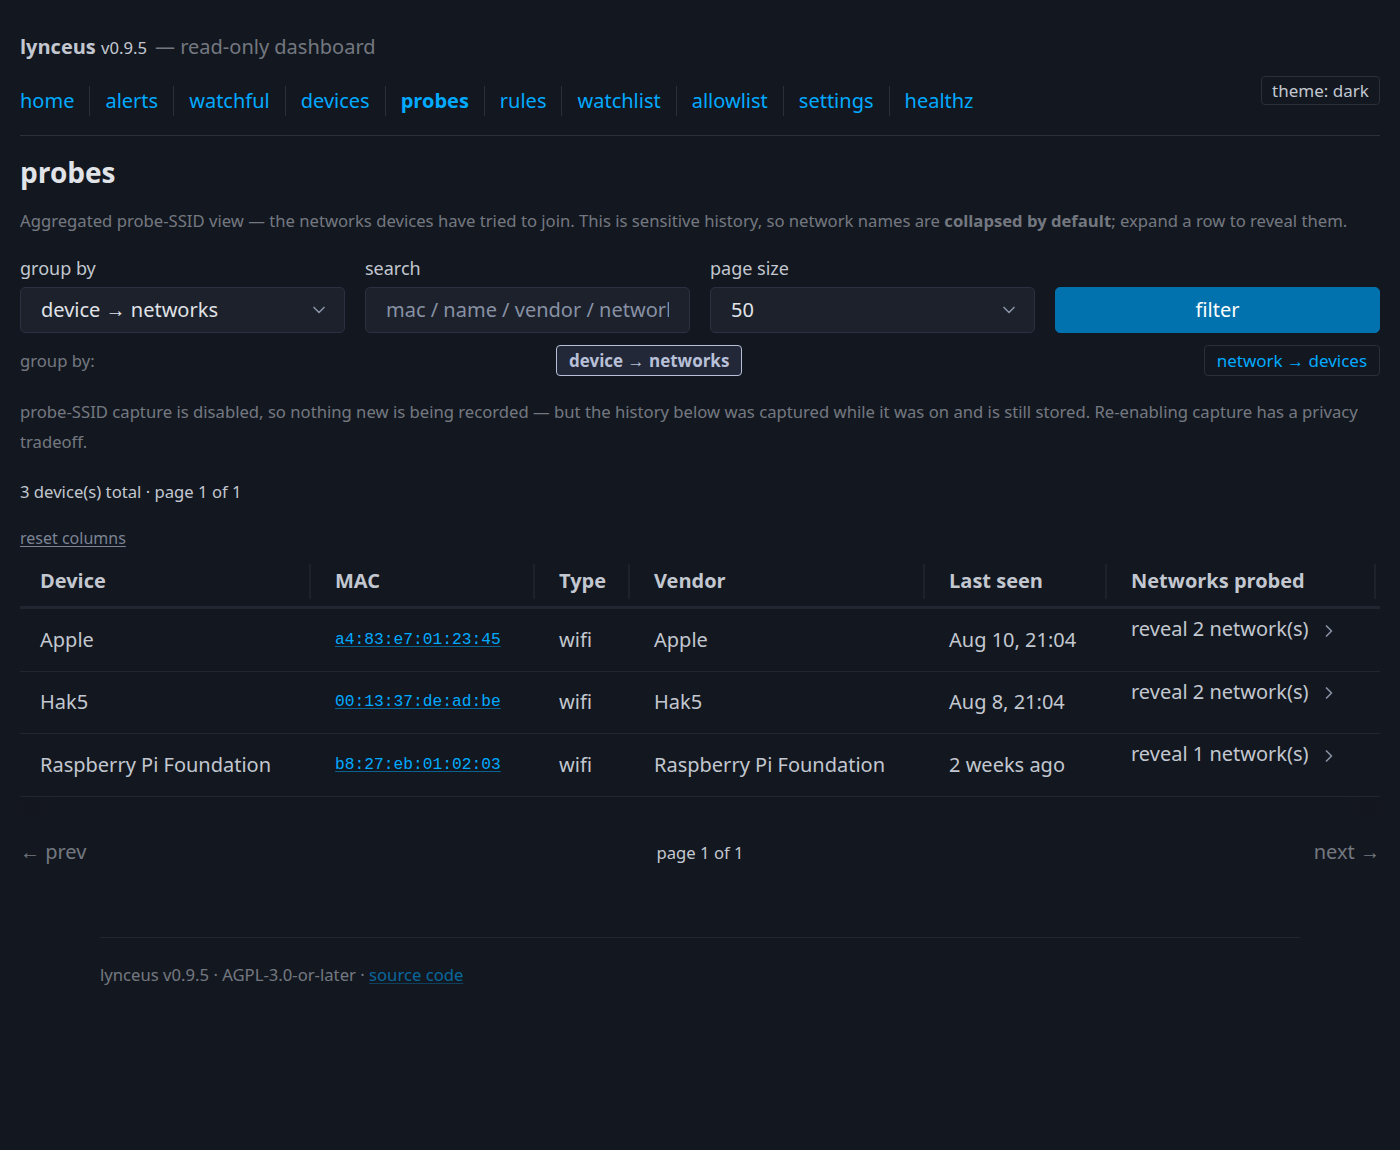
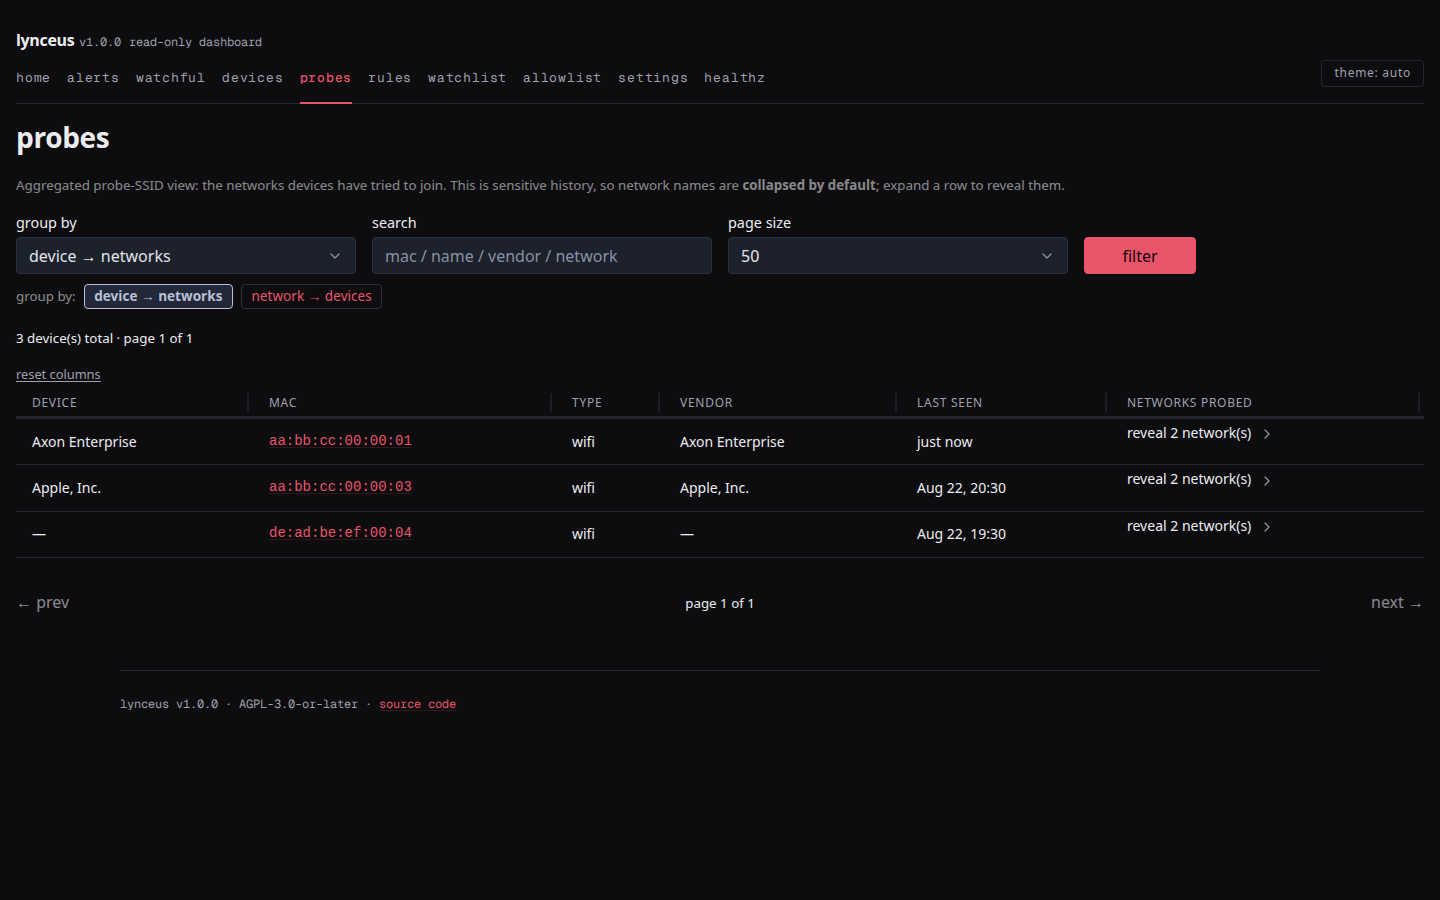
docs: restore #221's screenshots, which merged into a dead branch, and record the batch in the changelog (#224)
* docs(readme): re-shoot the five screenshots, in both themes, against the current UI (#221)

The five shipped images predated the entire UI redesign. Last committed
`d60cdbb`, 2026-08-13; #211 and #212 landed 2026-08-22. Every one showed the
old UI: Pico-blue links, 20px body text, the pipe-separated nav, the
full-width accent slabs, uppercase MACs the product never produces, and
`/alerts` before its filter bar was fixed.

Two dark, three light, and the README now says so -- both themes ship and
both are what the product renders from the operator's OS setting.

    dashboard.png             dark
    alerts-triage.png         light
    watchlist-argus.png       light
    probes-history.png        dark
    settings-ble-bridge.png   light

## The alt-text is the shot list, not a caption

Each image carries a long, specific alt-text, and this repo already has an
audit finding for breaking it once: the prose said five devices with the
reveals expanded, the committed image showed three, collapsed. That was
closed by re-cutting the WORDS. So re-shooting had to avoid REOPENING it.

⛔ The old fixture could not produce four of the five. `/probes` rendered
"probe-SSID capture is disabled, so this view is empty"; the dashboard led
with `Kismet status: unreachable` and a raw `HTTPConnectionPool` traceback;
`Watchlist: not loaded`; `RULES —  no ruleset, so nothing will alert`. A
screenshot of the product failing to connect, published as the picture of
the product working.
[…]

diff --git a/CHANGELOG.md b/CHANGELOG.md
@@ -25,6 +25,24 @@ The format is based on [Keep a Changelog](https://keepachangelog.com/en/1.1.0/).
 
 ### Added
 
+- **Two CI gates that reported on their own lists rather than on the product.**
+  The `web-assets` job checked `git ls-files '*.js'`, which is two files, while
+  the first-party JavaScript this product actually ships includes **10.6 KB
+  across 11 inline `<script>` blocks in 6 templates**, parsed by nothing. The
+  CSP work in this repo deliberately moved behaviour out of `on*=` attributes
+  and into those blocks, so a syntax error in one reaches the operator as a
+  silently dead page. `scripts/check_inline_js.py` now de-sugars each block
+  through Jinja's own lexer and hands it to `node --check`. Separately, the
+  inline-handler guard scanned 5 of 15 HTML pages from a hand-written list; it
+  now derives the page set instead of naming it.
+
+- **A regression test for the promote path's migration.**
+  `_seed_from_legacy` requires every mutating path to carry the pre-move file
+  forward, and the two obvious ones did. `Database.promote_watchful_to_allowlist`
+  is the third, takes its paths as keyword arguments, and defaults the legacy
+  one to `None`, so omitting it is silent at every level: no type error, no
+  lint error, no failing test. Keyed on behaviour rather than on the call site.
+
 - **`Database.unit()`, a read-and-write block that is actually atomic.**
   A read followed by a decision followed by a write is the shape every rule in
   this product uses, and until now the read was not inside the transaction. The
@@ -454,6 +472,18 @@ The format is based on [Keep a Changelog](https://keepachangelog.com/en/1.1.0/).
 
 ### Changed
 
+- **The README screenshots are re-shot against the current UI, in both themes.**
+  The five images predated the token layer and the form work, so they showed a
+  product that no longer looked like the one being installed.
+
+- **`.claude/gates.md` no longer puts the playwright prerequisite in `/tmp`.**
+  A reboot clears it, and because the browser gate fails rather than skips,
+  `make release-gates` goes red for a reason unrelated to the code, at exactly
+  the moment someone is cutting a release. Documented at a persistent path,
+  with two traps recorded: a surviving `~/.cache/ms-playwright` is not a working
+  one, since the browser revision is pinned to the playwright version; and the
+  venv must be built on the same Python minor as `.venv`.
+
 - **The web UI's prose follows the house style now.**
   99 sentences across 22 templates were restructured rather than having their
   punctuation swapped, so a clause join became either two sentences or an
@@ -586,6 +616,108 @@ The format is based on [Keep a Changelog](https://keepachangelog.com/en/1.1.0/).
   incompatible. The vendored Pico CSS keeps its own MIT licence.
 
 ### Fixed
+
+- **Threat signatures that were regexes in columns matched literally could never fire.**
+  `default_watchlist.csv` stored Python regexes in two columns Lynceus matches
+  as plain text: `ssid_pattern` is a `LIKE '%…%'` substring test and
+  `ble_local_name` was strict SQL equality. A needle of `dji[-_].+` therefore
+  required an SSID containing those characters literally. Measured through the
+  real matcher, `DJI-Phantom4`, `DJI_Mavic`, `Phantom-3` and `MP70_a1b2` all
+  returned `None`: the whole drone fleet, the forensic-extraction tools and the
+  in-vehicle routers were dead rows. Nothing reported it, and `/watchlist` and
+  `/healthz.json` graded every one of them LIVE.
+
+  The identifiers are re-cut as literal stems, because dropping the bad rows
+  makes the count honest while only re-cutting makes the product work.
+  `ble_local_name` was worse than first recorded: matched by equality, **all 21**
+  rows were dead rather than 13, since a real device advertises `Flock-1234`
+  and never the bare `Flock` that was stored. That column now uses the same
+  substring resolver as `ssid_pattern`, on both the eval path and the
+  annotation path. ⚠ This widens matching for operator-curated rows too, in
+  the direction that produces false alarms rather than misses.
+
+- **Promoting a drone to `remote_id` blinded five other rule types.**
+  Kismet's UAV phy decorates rather than types, so a Remote-ID drone arrives
+  typed `Wi-Fi Device` or `BTLE` with an extra `uav.device` component.
+  `parse_kismet_device` promoted `device_type` to `remote_id` before the
+  field-extraction block, every gate of which keyed on `device_type`. So the
+  SSID, BLE local name, service UUIDs and manufacturer id were all stripped.
+  Measured against two records differing only by that component, the wifi drone
+  kept `ssid='DJI-Phantom4'` and the same record with the component present had
+  `ssid=None`. Those are exactly the columns the bundled drone signatures match
+  on. A current airframe broadcasting Remote-ID, which is the point of
+  Remote-ID and is required by law, could not match the rows aimed at it.
+  Extraction now reads `radio_family`, captured before the promotion.
+
+- **Bluetooth friendly names were stored after the operator opted out.**
+  `evidence.py` carried a hand-copied `frozenset({"BTLE", "Bluetooth"})` while
+  the ingest layer's own type map carries a third Kismet type, `BR/EDR`, which
+  `kismet.py` documents as appearing in real captures. `base.name` is the
+  friendly name on a Bluetooth record, which is why the redactor strips it for
+  the Bluetooth family. So an operator who set `ble_friendly_names: false`
+  still had names written for every device Kismet typed `BR/EDR`. The redacted
+  set is now derived from the ingest map rather than transcribed from it, and
+  the test derives its parametrisation the same way, because a transcribed list
+  is what produced the gap.
+
+- **The heartbeat reported "still watching" while the BLE bridge failed every scan.**
+  Liveness was `thread.is_alive()`, which stays true for a thread that is
+  running and failing. A stopped component and a broken one looked identical to
+  the operator.
+
+- **`ssid_pattern` alerts were written with `matched_watchlist_id = NULL`.**
+  The annotation walk had no `ssid_pattern` branch while the rules engine
+  reached for it as a fallback, so an alert raised by one of the 24 bundled
+  `ssid_pattern` rows was annotated with nothing, and the alert, its `/alerts`
+  detail and the ntfy push body all lost the vendor and category of the row
+  that fired them.
+
+- **Every web-UI suppression returned HTTP 500 on a `--system` install.**
+  `allowlist_ui.yaml` was written beside the operator's allowlist, which under
+  `--system` is `/etc/lynceus`, deliberately excluded from the units'
+  `ReadWritePaths`, and the atomic write needs directory permission for its
+  lock and tmp file. The file is daemon-written state rather than operator
+  config, so it now lives beside the database, which the units already grant on
+  every install scope. ⚠ The dangerous half was the migration, not the move:
+  an install that already had suppressions has them in the old place, and
+  getting that wrong silently un-suppresses every device the operator had told
+  the product to ignore. The old location is read until the first UI write,
+  which carries its entries across.
+
+- **A cancelled apply told the completion page and left the live stream silent.**
+  The setup wizard's apply task synthesized a failed step for the cancellation
+  path and wrote it to the session report, so `/apply-complete` rendered, but
+  never put it on the queue the SSE endpoint drains. Every other terminal path
+  enqueues. So an operator watching `/apply-progress` while an apply was
+  cancelled saw the stream open, emit its closing `event: end` and shut, with
+  no record that anything had happened: the entire payload was
+  `event: end\ndata: {}`. The two surfaces describing one apply disagreed.
+
+- **A poison record could abort every poll tick forever.**
+  The parser's guard caught `ValidationError` only; three other exception
+  classes reaching the same path aborted the tick, and the record was still
+  there on the next one.
+
+- **Two simultaneous "watch" clicks could create a duplicate active row.**
+  The duplicate check ran outside the lock, and a second active row for one MAC
+  carries its own snooze, which the poller resolves by MAC. So a row the
+  operator never created could suppress their own HIGH alerts. Refused at the
+  database now, rather than by a check-then-insert.
+
+- **Promoting a watchful entry wrote the allowlist file before claiming the DB row.**
+  The two orders fail in opposite directions and only one is survivable: yaml
+  first and the DB write raising leaves the device allowlisted while the UI
+  says it is being watched, silenced permanently. DB first and the yaml write
+  raising leaves it alerting, which is the direction that keeps telling the
+  operator things.
+
+- **Two shipped documents advertised limitations that no longer existed.**
+  `PROJECT_STATUS.md` claimed there was no automatic database pruning, when
+  both prune helpers run from the poll loop and `evidence_retention_days`
+  defaults to 90; and claimed BLE 16-bit short-UUID expansion was absent, which
+  is backwards: that describes the defect the `ble_uuid` fix removed. The
+  second was also listed under "What's deferred", so one shipped feature was
+  advertised as unbuilt in two places.
 
 - **The home page's activity section said what it was counting.**
   It showed alert counts by severity and then device counts, under one heading,

diff --git a/README.md b/README.md
@@ -62,6 +62,8 @@ surveilled are neither. Lynceus is one of the second kind.
 
 The dashboard, running against the repo's own synthetic fixtures plus the
 bundled Argus snapshot. Every MAC below is a test value, not a real capture.
+Some shots are the dark theme and some the light one: both ship, both are
+what the product renders from your OS setting, and neither is a mock-up.
 
 ![Lynceus dashboard: health, last poll, devices seen, alert severity matrix, a
 30-day alerts-per-day sparkline, and recent unacknowledged alerts](docs/images/dashboard.png)
@@ -78,8 +80,8 @@ its Argus record id, vendor, and confidence score, and links through to the
 public source it came from:
 
 ![The watchlist filtered to the alpr category, showing Flock Safety
-signatures across BLE UUID, MAC, MAC range, SSID pattern, and BLE local name
-types, each with an argus id and a confidence score](docs/images/watchlist-argus.png)
+signatures across BLE UUID, OUI, MAC, SSID pattern, and BLE local name types,
+each with an argus id and a confidence score](docs/images/watchlist-argus.png)
 
 Probe history on `/probes`, exactly as the page opens: three devices, and the
 networks each one asked for kept behind a `reveal` control rather than printed
